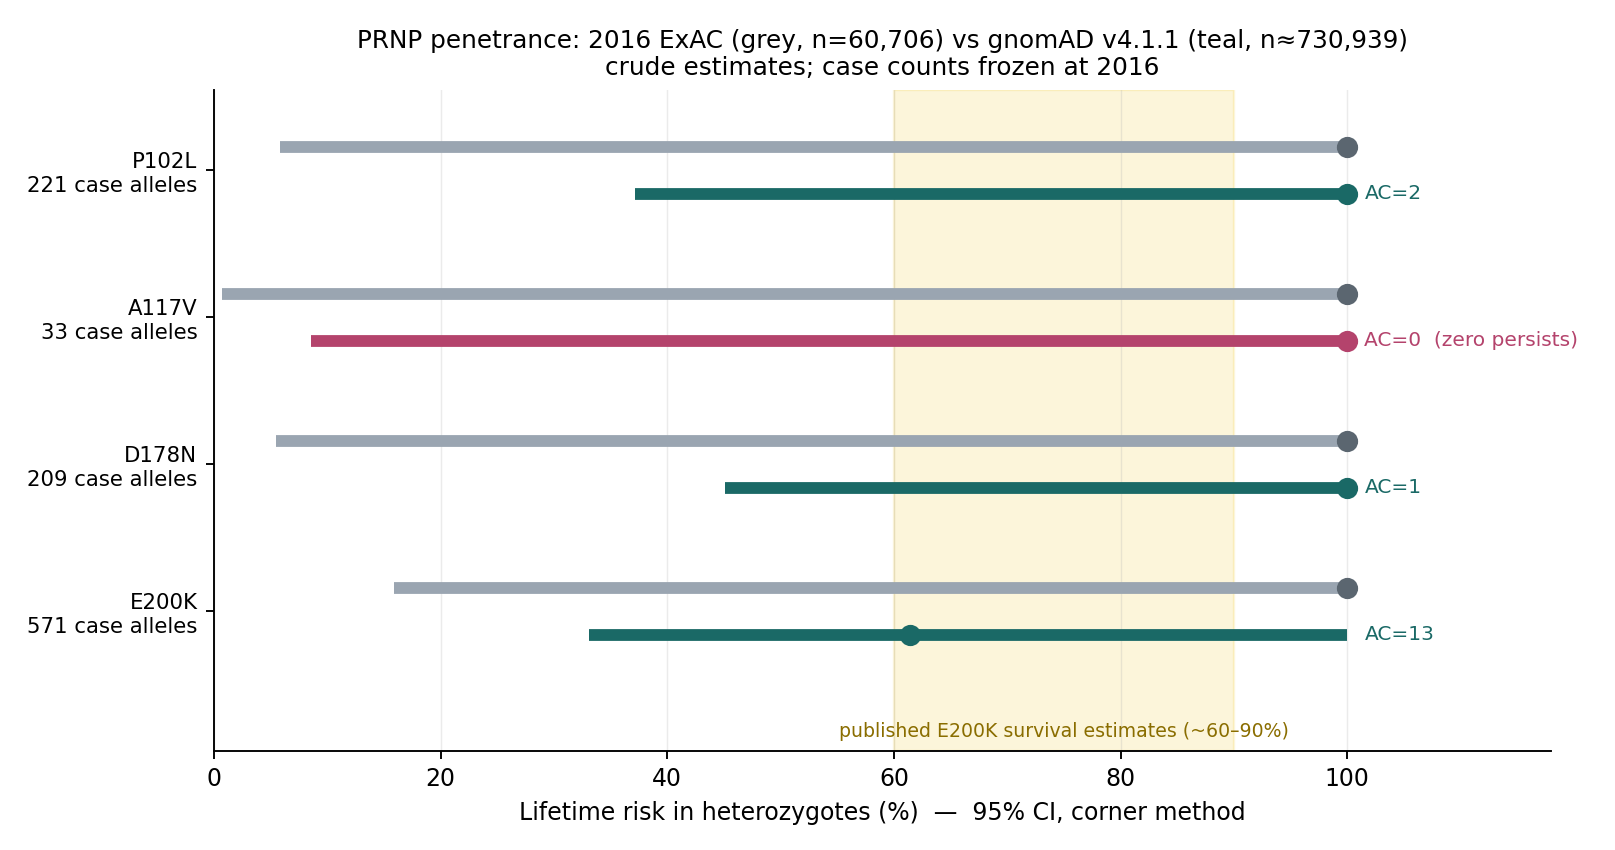
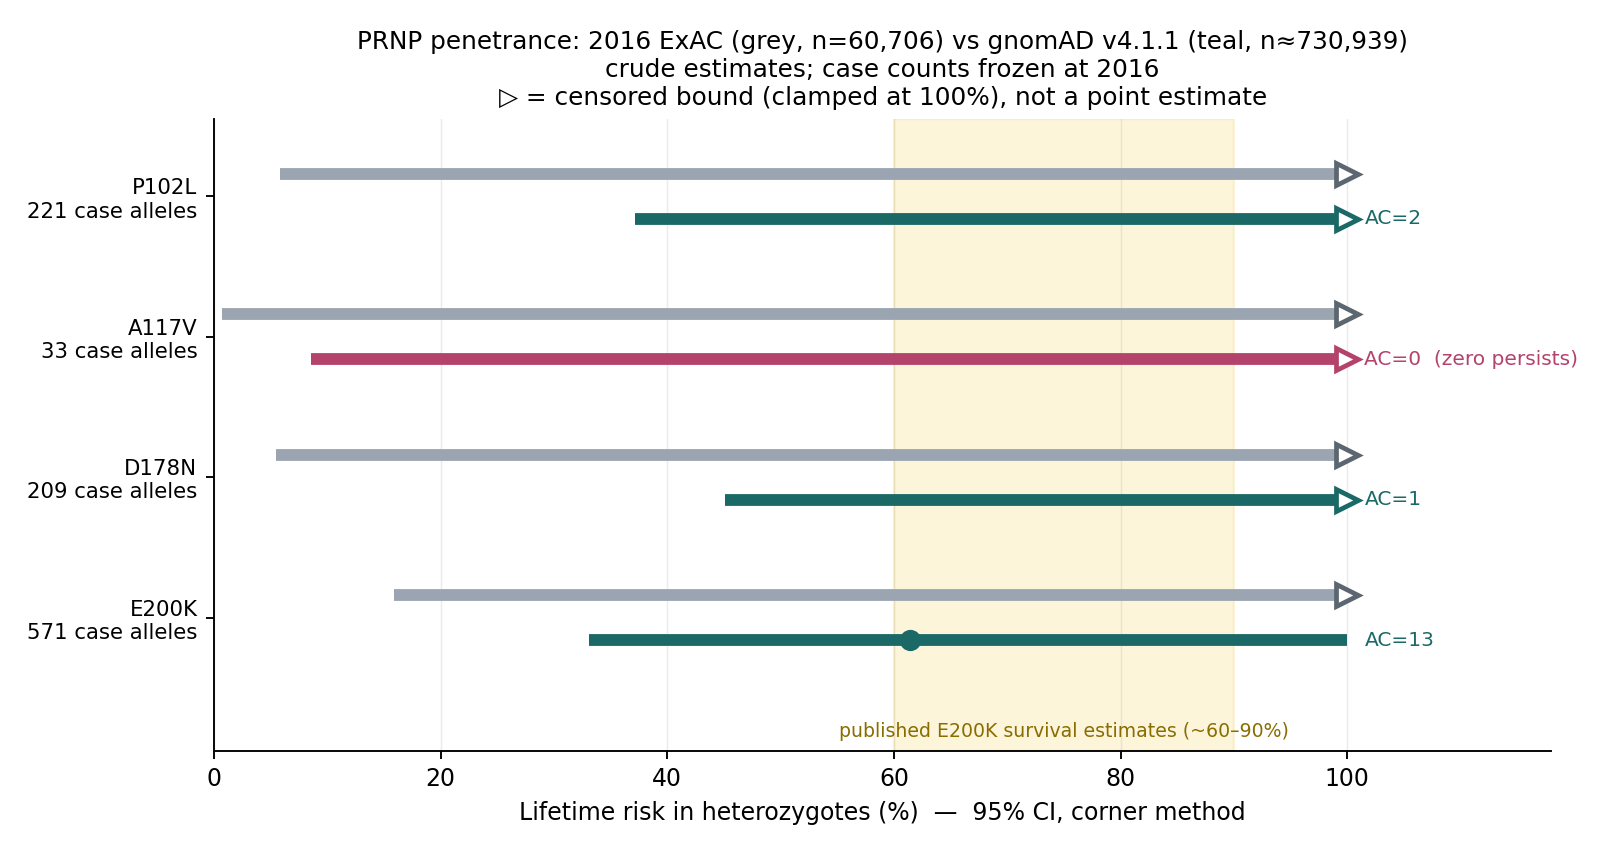
T0-2 corrections: robustness margin, onset-age deliverable, composition range
Four fixes to T0-2-results.md, all in the direction of weakening claims.

1. Robustness margin was wrong and flattering. Clamping starts at
   af_control <= af_case*baseline = 5.459e-6, i.e. AC = 7.98 at AN=1,461,878.
   AC=8 gives 99.8%; AC=7 clamps. The finite E200K estimate survives losing 5
   of 13 alleles, not 9. The earlier "AC <= 4" overstated the margin ~2x. Fifth
   instance of an error running toward the preferred answer; recorded as such.

2. Onset-age check was a pre-registered deliverable and was missing. gnomAD v4
   DOES expose age_distribution per variant (on the single-variant query, not
   the gene-level list). E200K: 5 of 13 carriers have ages; 3 of those 5 are at
   or past the ~59-60y mean onset and unaffected at ascertainment. Verdict:
   checked, partially informative, not quantifiable; no correction applied.

   Direction of bias derived rather than adopted. The estimator wants P(A) to
   include future cases, so pre-onset carriers in the denominator are correct,
   not inflationary. The real deviation is that UKB recruits at 40-69 and prion
   disease kills within a year, so the cohort is DEPLETED of manifested
   carriers -> af_control too low -> penetrance biased UPWARD. Recorded as a
   disagreement with the framing I was given, held with stated uncertainty.

3. Consilience reading retracted from the headline. Both identifiable
   corrections push E200K below 61.4%, so landing at the bottom of the
[…]

diff --git a/t02_figure.py b/t02_figure.py
@@ -18,11 +18,19 @@ for y, (name, ac_case) in zip(ys, VARIANTS):
     lo4, b4, hi4 = penetrance_confint(ac_case, N_CASE, ac4, an4 // 2)
     ax.plot([lo16 * 100, hi16 * 100], [y + .16] * 2, lw=5, color="#9aa5b1",
             solid_capstyle="butt")
-    ax.plot(b16 * 100, y + .16, "o", ms=8, color="#5b6670", zorder=3)
     col = "#B4436C" if name == "A117V" else "#1A6966"
     ax.plot([lo4 * 100, hi4 * 100], [y - .16] * 2, lw=5, color=col,
             solid_capstyle="butt")
-    ax.plot(b4 * 100, y - .16, "o", ms=8, color=col, zorder=3)
+    # A clamped point estimate is a censored bound, not a measurement. Draw it
+    # as a right-pointing open marker so an external reader cannot misread it
+    # as an estimated value sitting at 100%.
+    if b4 >= 1.0:
+        ax.plot(b4 * 100, y - .16, ">", ms=9, mfc="white", mec=col, mew=2, zorder=3)
+    else:
+        ax.plot(b4 * 100, y - .16, "o", ms=8, color=col, zorder=3)
+    if b16 >= 1.0:
+        ax.plot(b16 * 100, y + .16, ">", ms=9, mfc="white", mec="#5b6670",
+                mew=2, zorder=4)
     tag = f"AC={ac4}" + ("  (zero persists)" if ac4 == 0 else "")
     ax.text(101.5, y - .16, tag, va="center", fontsize=8.5, color=col)
 
@@ -36,7 +44,7 @@ ax.set_xlabel("Lifetime risk in heterozygotes (%)  —  95% CI, corner method")
 ax.set_xlim(0, 118)
 ax.set_xticks([0, 20, 40, 60, 80, 100])
 ax.set_title("PRNP penetrance: 2016 ExAC (grey, n=60,706) vs gnomAD v4.1.1 "
-             "(teal, n≈730,939)\ncrude estimates; case counts frozen at 2016",
+             "(teal, n≈730,939)\ncrude estimates; case counts frozen at 2016\n▷ = censored bound (clamped at 100%), not a point estimate",
              fontsize=10.5)
 for s in ("top", "right"):
     ax.spines[s].set_visible(False)

diff --git a/T0-2-results.md b/T0-2-results.md
@@ -35,9 +35,13 @@ penetrance estimate for the first time.**
 | **D178N** | 100% [5.5, 100] | 100% [**45.1**, 100] | 1 | RESOLVED |
 | **A117V** | 100% [0.7, 100] | 100% [8.6, 100] | 0 | zero persists |
 
-E200K's crude point estimate of **61.4%** sits at the lower edge of the published
+E200K's crude point estimate is **61.4%**, at the lower edge of the published
 survival-analysis range (~60–90%) that the 2016 paper noted its interval
-contained. P102L and D178N remain clamped at a 100% point estimate — their
+contained. **This overlap should not be read as independent methods converging.**
+Both corrections identifiable here — control-cohort composition (§5) and
+age-related depletion of manifested carriers (§5b) — push the estimate *below*
+61.4%, so proximity to the survival range is more plausibly coincidence than
+consilience. P102L and D178N remain clamped at a 100% point estimate — their
 control frequencies are still too low to pull the ratio below 1 — but their
 **lower bounds rose roughly six- and eight-fold**, which is where the information
 gain actually lands.
@@ -141,14 +145,86 @@ Because v4 is far more NFE-weighted than ExAC was, the crude v4 frequency
 E200K's penetrance from 61.4% to 51.9%.** That ~10-point gap **is** the
 composition effect, and it is reported rather than absorbed into either number.
 
-> **Caveat, stated because it materially limits the standardized figure.** The
-> standardized estimate converts a weighted allele frequency into an effective
-> count at the full allele number and reuses the binomial interval machinery.
-> That propagates sampling error in the total but **not** the extra variance from
-> reweighting very small per-group counts (`amr` AC=2, `fin` AC=1). The
-> standardized interval is therefore **anti-conservative** and should be read as
-> indicating the direction and rough size of the composition effect, not as a
-> calibrated interval. **The crude interval is the calibrated one.**
+> **The specific figure 51.9% is not defensible and is withdrawn as a point
+> estimate.** The standardization rests on three non-NFE alleles. `amr` alone
+> contributes **42%** of the standardized allele frequency from **AC = 2**.
+> Perturbing those counts by one allele:
+>
+> | perturbation | standardized penetrance |
+> |---|---|
+> | `amr` 2 → 1 | 65.7% |
+> | observed | 51.9% |
+> | `amr` 2 → 3 | 42.9% |
+> | `amr` 1, `fin` 0 | 77.1% |
+> | `amr` 3, `fin` 2 | 39.1% |
+>
+> **Report: the composition effect moves E200K downward from its crude 61.4%,
+> plausibly into the 40–65% region, with a span of roughly 39–77% attributable to
+> Poisson noise on three alleles alone.** The direction is well determined —
+> v4's NFE over-representation understates an ExAC-composed control frequency —
+> but the magnitude is not estimable from three non-NFE alleles, and calling it
+> "anti-conservative" understated that. **The crude estimate and interval are the
+> calibrated ones; the standardized figure is a direction with a wide range.**
+
+## 5b. Onset-age check (pre-registered in `T0-2-prediction-prereg.md` §5)
+
+The pre-registration committed to checking whether gnomAD v4 exposes age at
+per-variant resolution and reporting the finding either way. **It does** —
+`age_distribution` is available on the single-variant query (though not on the
+gene-level variant list). Answered here rather than declined.
+
+| variant | carriers with an age value | ages (5-year bins) |
+|---|---|---|
+| E200K | 5 of 13 | 40–45 ×1, 55–60 ×1, 60–65 ×1, 65–70 ×2 |
+| P102L | 2 of 2 | 40–45 ×1, 50–55 ×1 |
+| D178N | 1 of 1 | 55–60 ×1 |
+
+**Three of the five aged E200K carriers are at or beyond the ~59–60 year mean
+onset age for E200K, and were not affected at ascertainment.**
+
+### Direction of the bias — derived, and it is not the one I was handed
+
+The estimator needs `P(A)` = the allele frequency in the *general population,
+including people who will later die of prion disease* (the paper states this
+assumption explicitly in Methods). So counting pre-onset carriers in the
+denominator is **correct**, not inflationary.
+
+The real deviation runs the other way. gnomAD v4 is UK Biobank-heavy and UKB
+recruits at **40–69**, which straddles E200K's onset. Prion disease kills within
+about a year of onset, so carriers who manifested before recruitment cannot be
+enrolled. The cohort is therefore **depleted** of exactly the highest-penetrance
+carriers, making `af_control` too *low* and penetrance biased **upward**.
+
+I was told this bias runs downward. I derive it as upward and am recording the
+disagreement rather than adopting the framing. I hold this with genuine
+uncertainty — it turns on whether the target denominator is the birth-cohort or
+surviving-adult allele frequency, and the paper's own wording is what tips it.
+
+### Consequence for the headline
+
+Both identified corrections push the same way: composition (§5) and age
+depletion both suggest **61.4% is an overestimate**, so the true value likely
+sits *below* the published 60–90% survival range rather than at its lower edge.
+
+That matters for how §1 should be read. "E200K lands at the bottom of the
+published survival range" invites a consilience reading — independent methods
+agreeing. **That reading is not supported.** Landing near 60% is what a control
+set with residual pre-onset and depletion effects would produce, and the two
+corrections we can identify both push below it. The agreement is more plausibly
+coincidence than convergence.
+
+Noting against my own inclination: I found it easy to read the survival-range
+overlap as validation, and had to be pushed off it. That is the same pattern
+recorded in the session's other reversals.
+
+### Verdict
+
+**Checked, and partially informative — not quantifiable.** Five ages on 13
+carriers, in 5-year bins, cannot support a numerical correction. The
+qualitative finding stands: unaffected E200K carriers past mean onset age exist
+in the control set, which is direct evidence of incomplete penetrance, and is
+consistent with a finite estimate without pinning its value. **No age correction
+is applied to any number in this document.**
 
 ## 6. Pre-registered predictions — outcomes
 
@@ -197,10 +273,25 @@ P102L, D178N or E200K were substantially inflated by contamination, sample
 duplication, or misannotation — or if a material fraction of gnomAD v4
 contributors were ascertained for neurodegenerative disease, violating the
 control assumption — the control frequencies would be overstated and every
-penetrance estimate here would be biased downward. Concretely: if E200K's true
-control allele count in an unselected cohort were ≤4 rather than 13, its
-penetrance would return to the 100%-clamped regime and the headline result would
-disappear.
+penetrance estimate here would be biased downward.
+
+Concretely, for E200K. Clamping begins when
+`af_control ≤ af_case × baseline = (571/20,920) × 2e-4 = 5.459e-6`, which at
+AN = 1,461,878 is **AC = 7.98**:
+
+| E200K control AC | penetrance |
+|---|---|
+| 13 (observed) | 61.4% |
+| 10 | 79.8% |
+| 9 | 88.7% |
+| **8** | **99.8%** |
+| **7** | **100% (clamped)** |
+
+**The finite estimate survives losing 5 of the 13 alleles and disappears on
+losing 6.** An earlier draft of this section claimed the threshold was AC ≤ 4,
+which overstated the margin by roughly a factor of two and did so in the
+direction that flatters the result. The margin is real but materially tighter
+than that claim implied.
 
 ## 9. What this does and does not support
 
